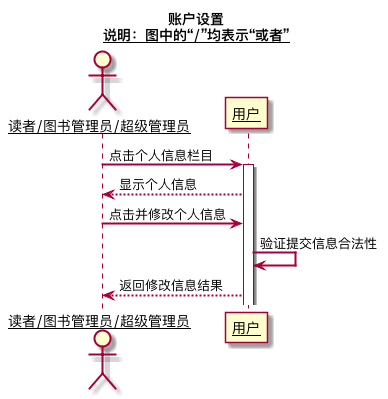
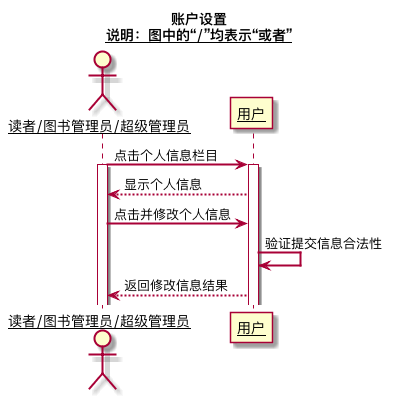
test4

diff --git a/test4/sequence2.md b/test4/sequence2.md
@@ -9,6 +9,7 @@ skinparam sequenceParticipant underline
 actor "读者/图书管理员/超级管理员" as U
 participant "用户" as A
 U ->A:点击个人信息栏目
+activate U
 activate A
 A -->U:显示个人信息
 U ->A:点击并修改个人信息

diff --git a/test4/sequence3.md b/test4/sequence3.md
@@ -11,6 +11,7 @@ participant "读者" as A
 participant "资源项" as B
 participant "馆藏资源品种" as C
 participant "借书记录" as D
+activate U
 U ->A:验证读者
 activate A
 U ->B:获取资源项

diff --git a/test4/sequence1.md b/test4/sequence1.md
@@ -8,6 +8,7 @@ skinparam maxmessagesize 60
 skinparam sequenceParticipant underline
 actor "用户" as U
 participant "图书" as A
+activate U
 U ->A:输入图书信息
 activate A
 A -->U:返回图书信息
